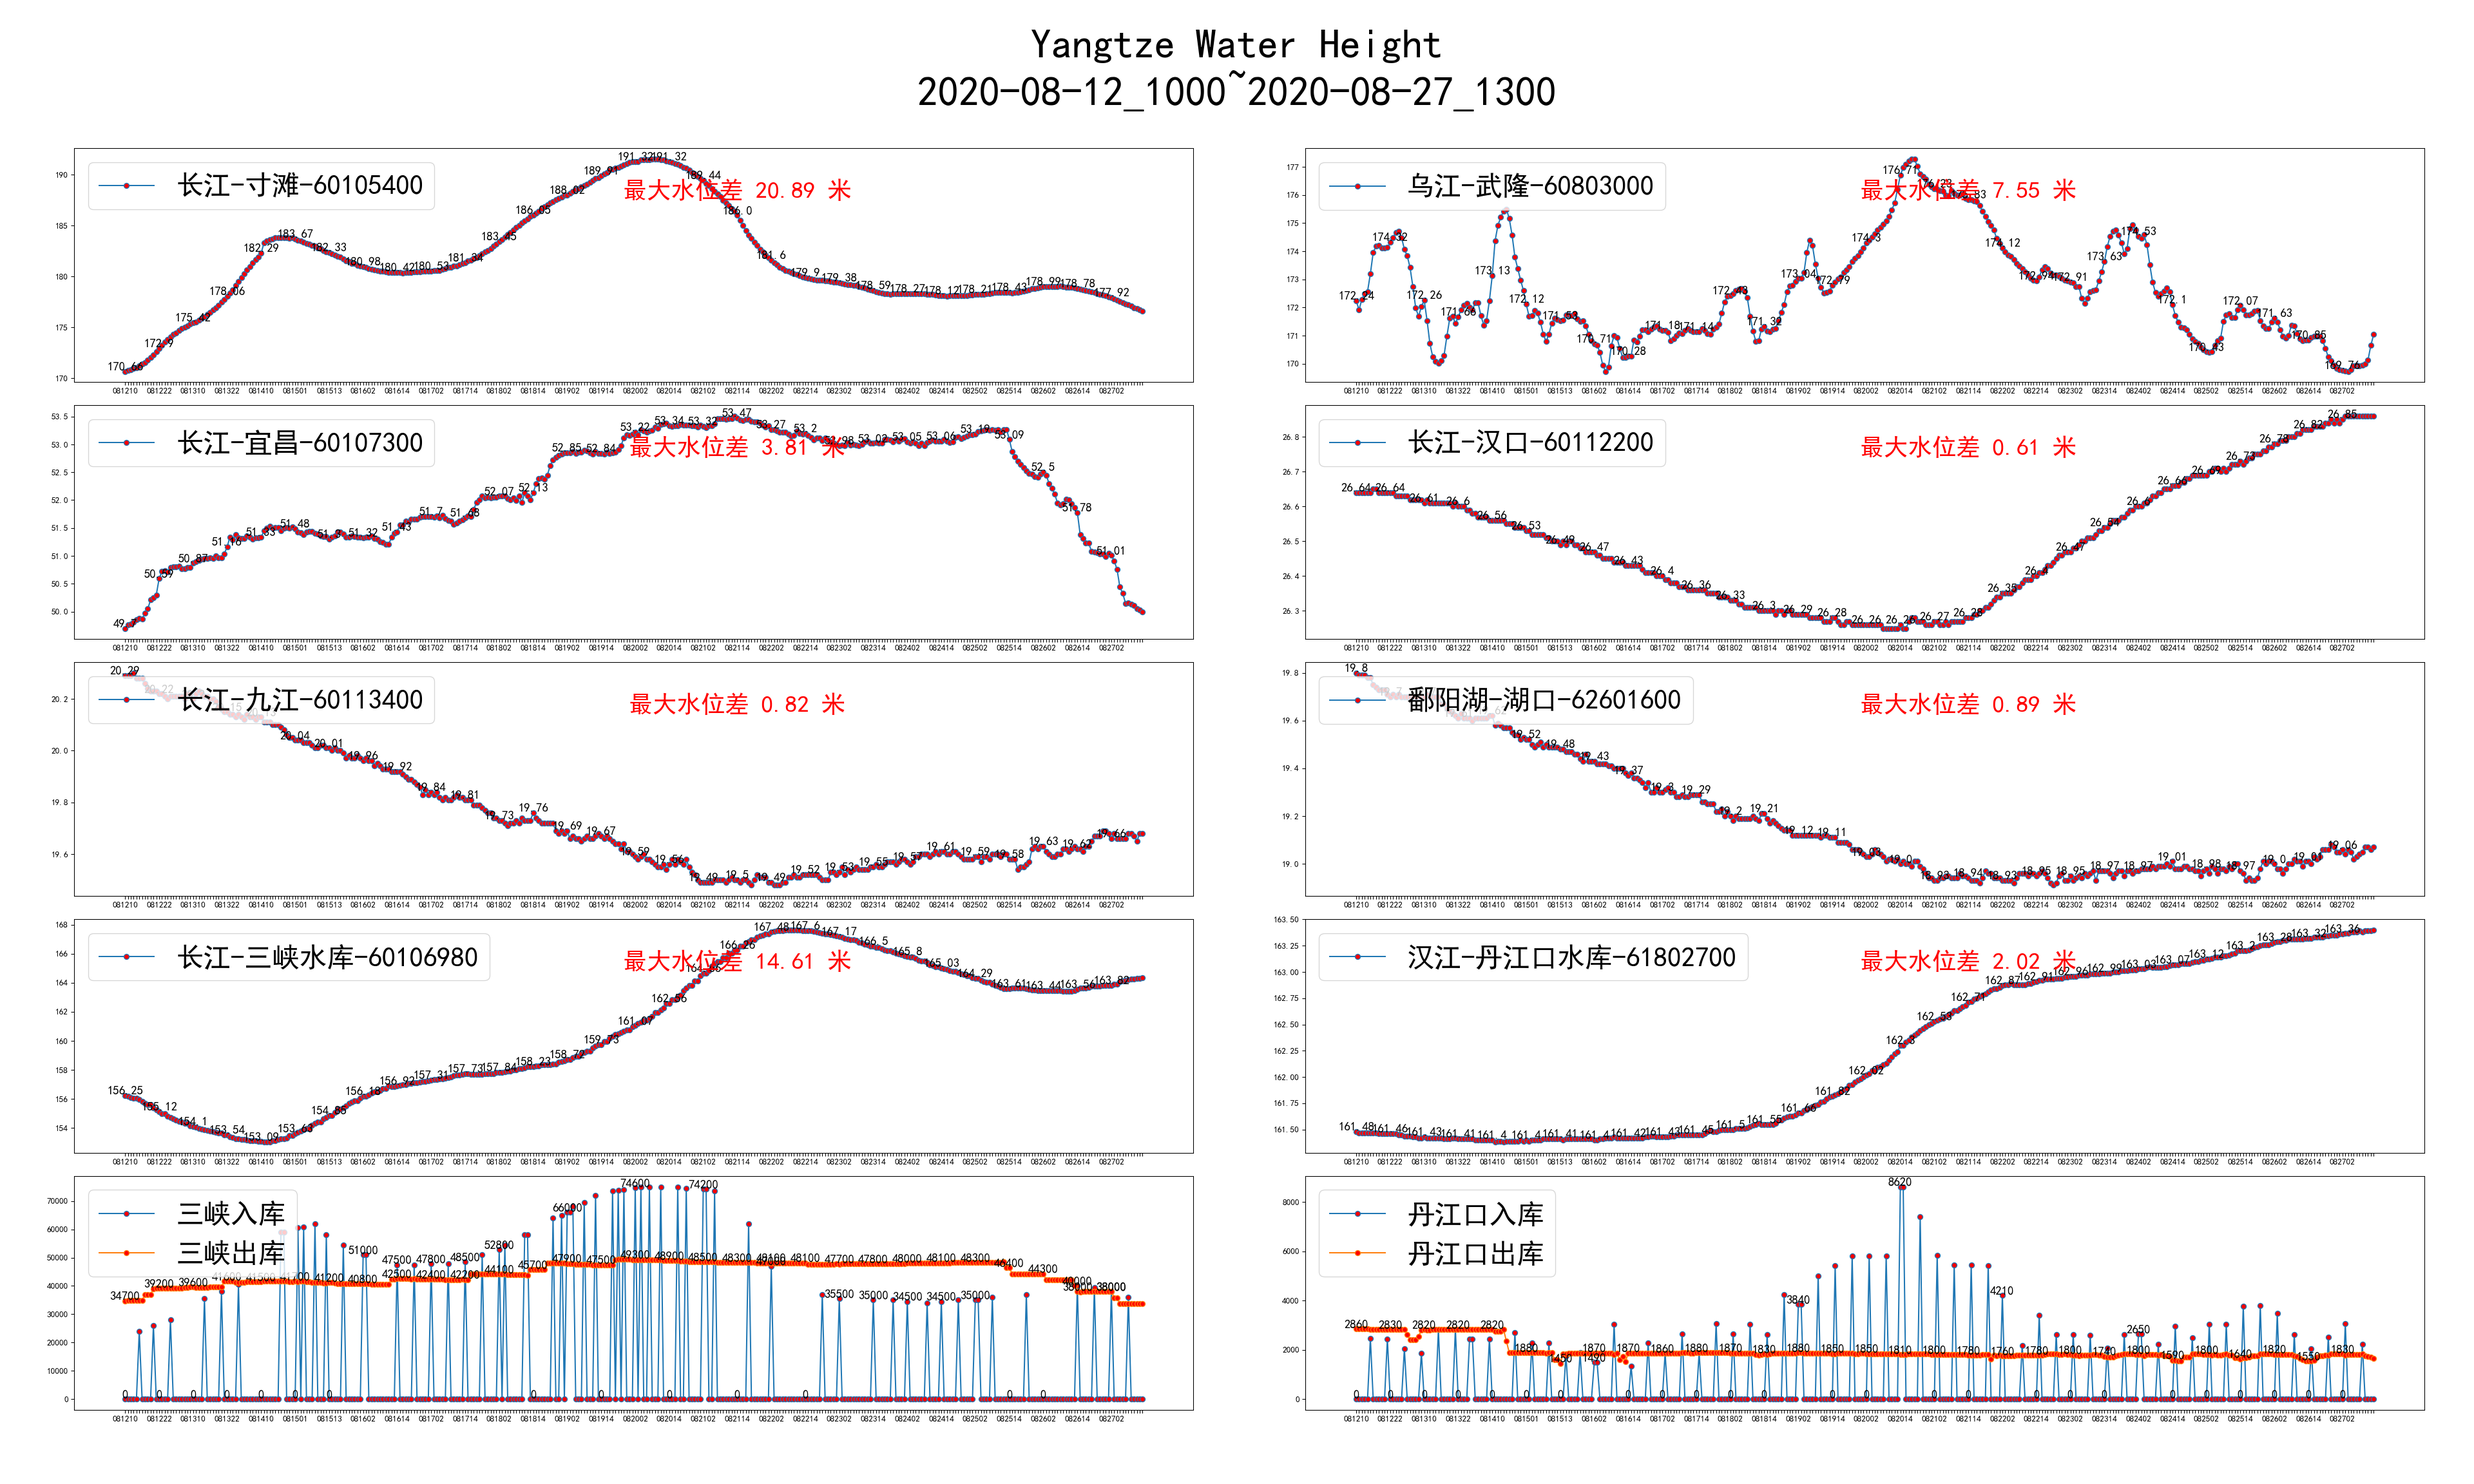
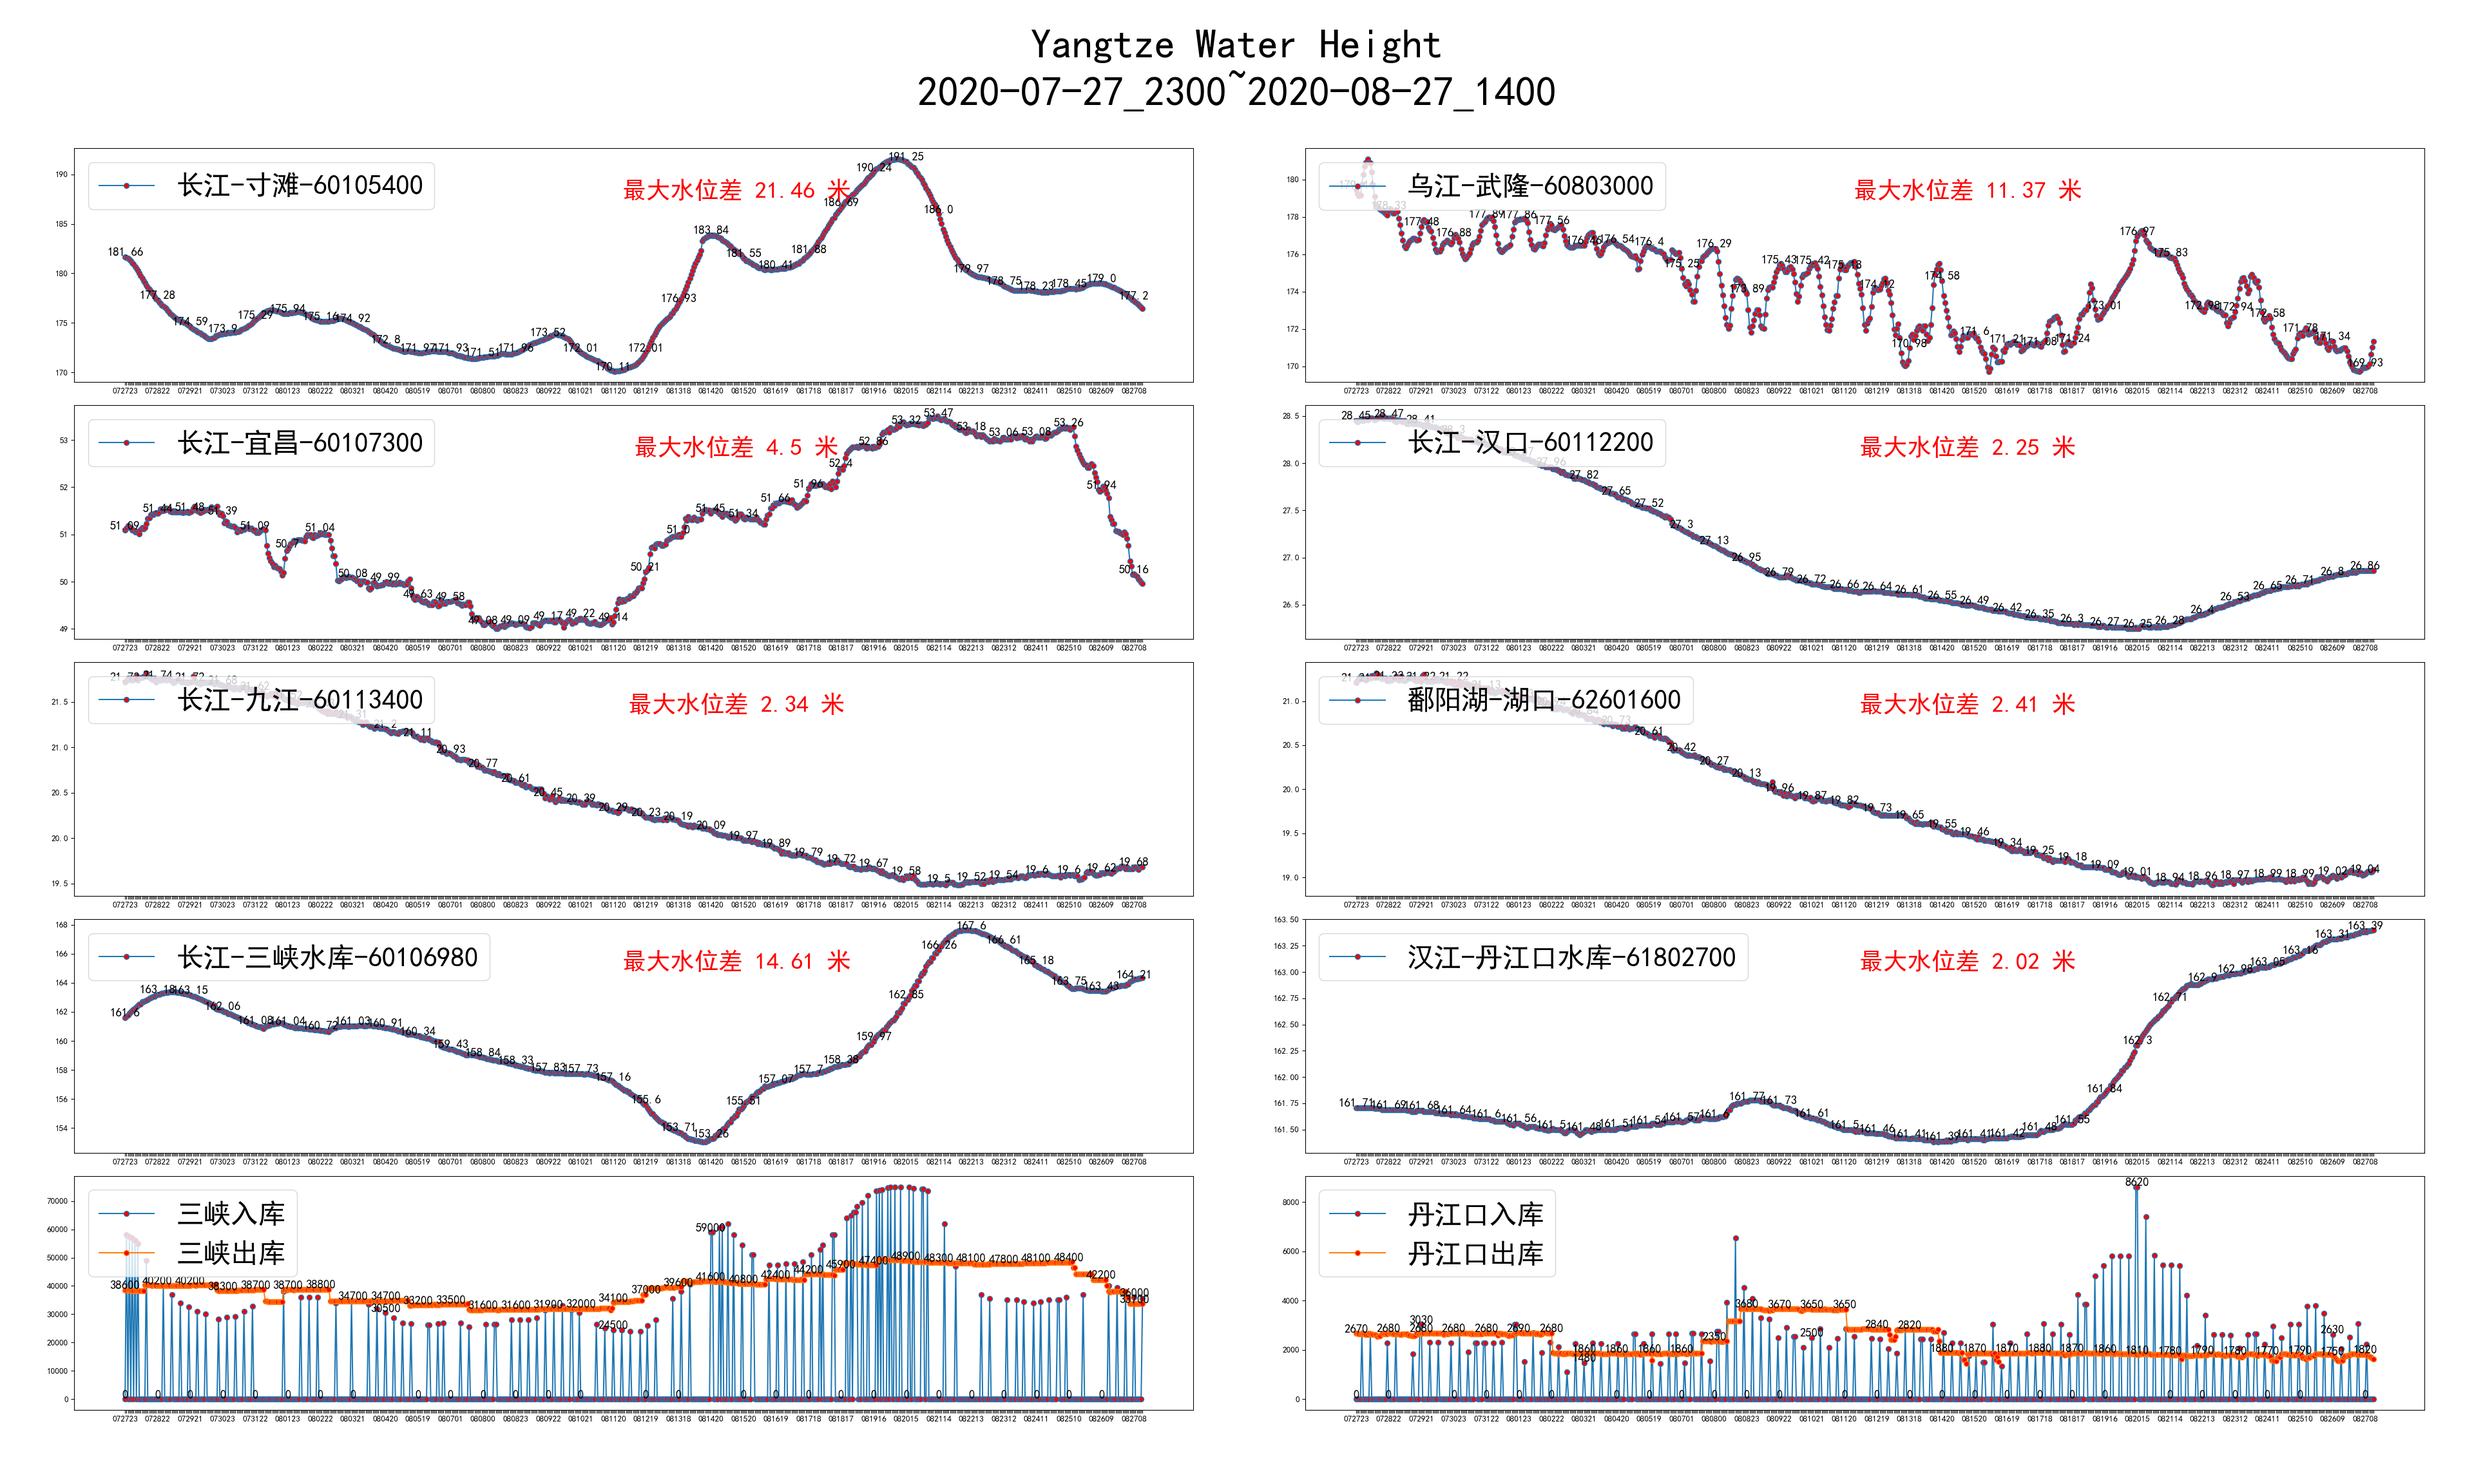
more datas, auto commit

diff --git a/water.py b/water.py
@@ -167,7 +167,7 @@ if __name__ == "__main__":
         st = ['60105400', '60107300', '60112200', '60113400',
               '62601600', '60106980', '60803000', '61802700']
         #        鄱阳湖     三峡水库      乌江	    丹江口水库
-        plot(360, st)
+        plot(720, st)
 
     if cmd != Command.silent:
         from PIL import Image
